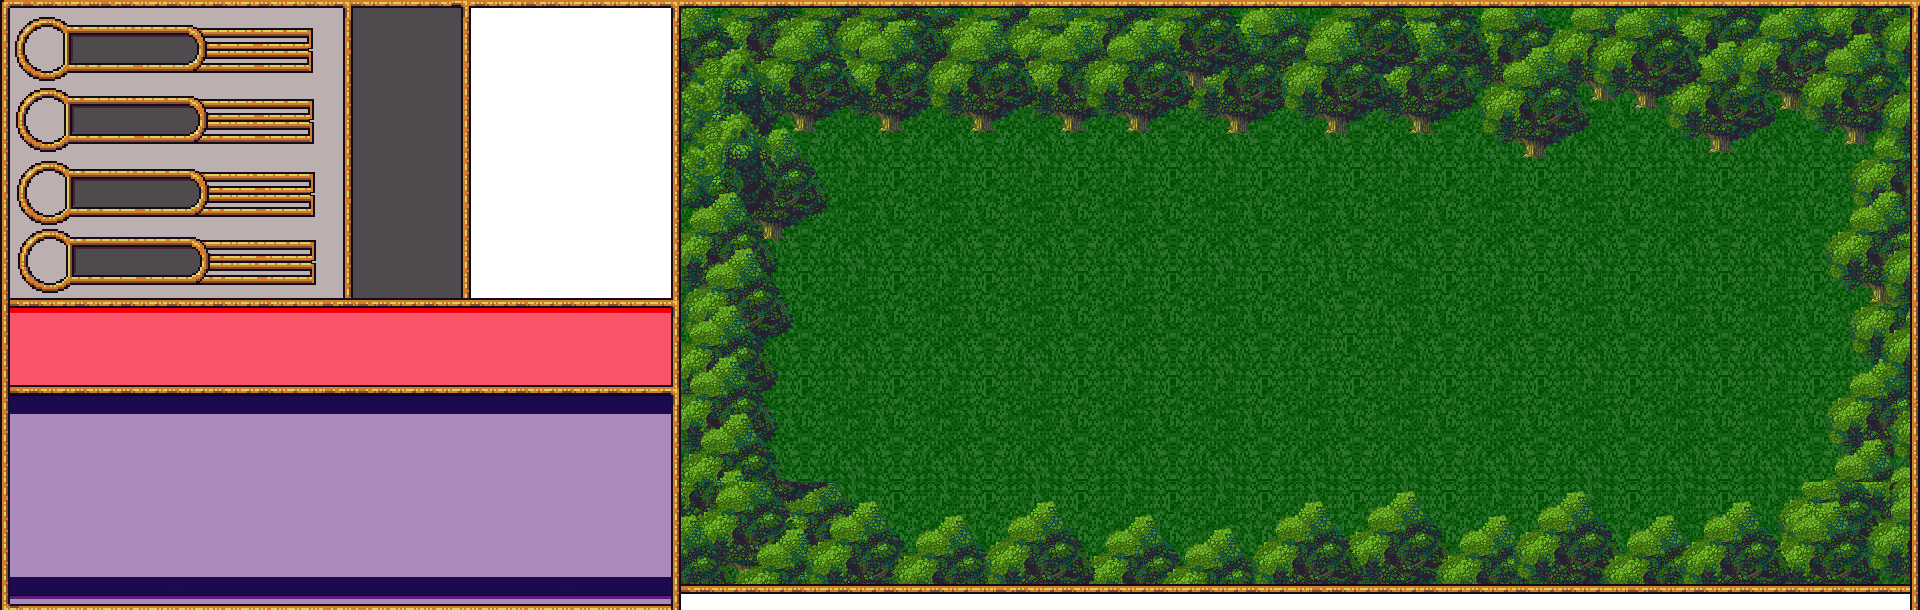
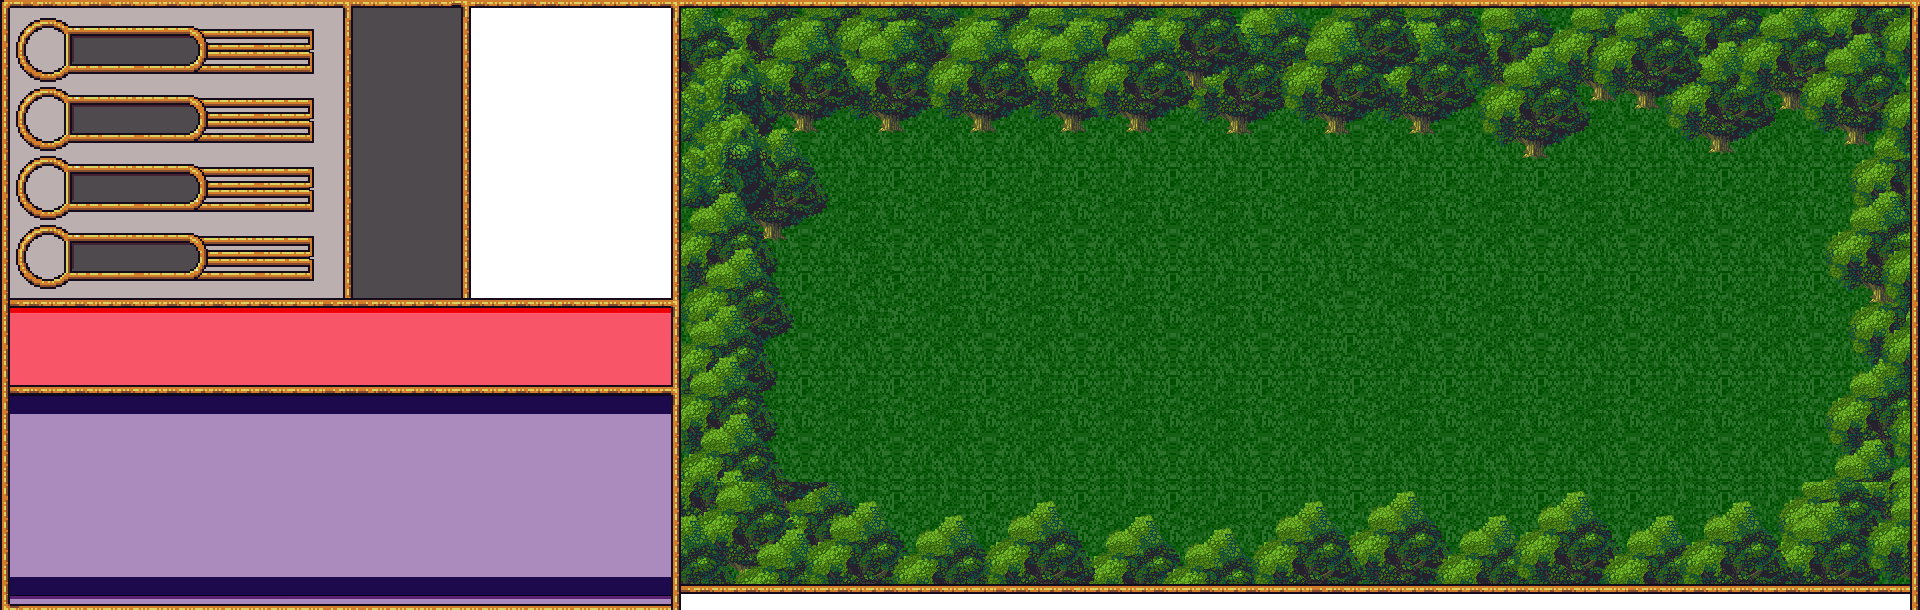
Putting together the UI

Changed region(s): [[0.0, 0.0311, 0.1875, 0.4984], [0.4375, 0.4672, 0.4688, 0.4984]]

diff --git a/views/src/game.js b/views/src/game.js
@@ -31,7 +31,7 @@ Game.preload = function() {
     game.load.script("BlurX", path + "assets/Layout/BlurX.js");
     game.load.script("BlurY", path + "assets/Layout/BlurY.js");
     game.load.script('webfont', '//ajax.googleapis.com/ajax/libs/webfont/1.4.7/webfont.js');
-    game.load.image('map', 'assets/Board/Board2.png');
+    game.load.image('map', 'assets/Board/Board.png');
     game.load.image('status', 'assets/Board-62-height/Status.png');
     game.load.image('trap', 'assets/images/trap.png');
     game.load.image('yellow_gem', 'assets/Board-62-height/YellowGem.png');
@@ -41,15 +41,15 @@ Game.preload = function() {
     game.load.image('sprite','assets/images/sprite-test.png');
     game.load.image('bullet','assets/images/arrow2.png');
     game.load.image('remove','assets/images/remove.png');
-    game.load.image('trash','assets/images/trash.png');
-    game.load.image('exit','assets/images/exit.png');
+    game.load.image('trash','assets/Buttons/ButtonTrash.png');
+    game.load.image('exit','assets/images/x-button.png');
     game.load.image('roll-dice','assets/Buttons/ButtonRoll.png');
     game.load.image('end-turn','assets/Buttons/ButtonEnd.png');
     game.load.image('atk-btn', 'assets/Buttons/ButtonOff.png');
-    game.load.image('warrior', 'assets/images/warrior.png');
-    game.load.image('mage','assets/images/Mage.png');
-    game.load.image('ranger','assets/images/Ranger.png');
-    game.load.image('mat', 'assets/Board-62-height/temp-mat.png');
+    game.load.image('warrior', 'assets/Attributes/Force.png');
+    game.load.image('mage','assets/Attributes/Arcana.png');
+    game.load.image('ranger','assets/Attributes/Clarity.png');
+    game.load.image('mat', 'assets/Board/Selection.png');
     game.load.image('card_sprite', 'assets/Board-62-height/temp-card.png');
 
     game.load.atlasJSONHash('all_cards', 'assets/all_cards.png', 'assets/all_cards.json');
@@ -150,10 +150,10 @@ Game.addNewPlayer = function(player,id,x,y){
 
 
 Game.createButtons = function(id){
-    game.roll_btn = game.add.button(this.world.centerX,this.world.centerY,'roll-dice', Game.rollDice);
+    game.roll_btn = game.add.button(408, 100,'roll-dice', Game.rollDice);
     game.roll_btn.anchor.setTo(0.5,0.5);
 
-    game.end_btn = game.add.button(this.world.centerX+100,this.world.centerY,'end-turn', Client.endTurn);
+    game.end_btn = game.add.button(408, 200,'end-turn', Client.endTurn);
     game.end_btn.anchor.setTo(0.5,0.5);
 
     Game.disableInput();
@@ -301,8 +301,6 @@ Game.updateStats = function(players){
     {
         var id = players[i].id;
 
-        title[id].setText(players[id].stats.title + " - Lvl. " + players[id].stats.level + ": " + players[id].name);
-
         var healthOffset = players[id].stats.hp/players[id].stats.max_hp * 100;
         myHealthBar[id].setPercent(healthOffset);
         hp_text[id].setText("HP: " + players[id].stats.hp + "/" + players[id].stats.max_hp);
@@ -394,7 +392,7 @@ Game.updateDice = function (frameValues, newTotal) {
 };
 
 Game.enableTrashInput = function (index){
-    game.trash = game.add.button(this.world.centerX-400,this.world.centerY+200,'trash', function(){
+    game.trash = game.add.button(595, 490,'trash', function(){
         Game.removeCardFromHand(index);
     });
     game.trash.anchor.setTo(0.5,0.5);
@@ -529,30 +527,32 @@ Game.removeGraphics = function(){
 
 Game.createStatBars = function (name, hero, x, y, id){
 
-    title[id] = game.add.text(x, y, hero.title + " - Lvl. " + hero.level + ": " + name, {
-        font: "12px Arial",
-        align: "left"
+    title[id] = game.add.text(x-150, y+10, name, {
+        font: "11px Arial",
+        align: "left",
+        fill: "#ffffff",
+        stroke: '#000000',
+        strokeThickness: 2
+    
     });
     title[id].anchor.setTo(0.5, 0.5);
+    title[id].setShadow(2, 2, 'rgba(0,0,0,0.5)', 2);
 
-    y += 15;
-
-    hp_text[id] = game.add.text(x, y, "HP: " + hero.hp + "/" + hero.max_hp, {
-        font: "12px Arial",
-        align: "left"
+    hp_text[id] = game.add.text(x-88, y+4, "HP: " + hero.hp + "/" + hero.max_hp, {
+        font: "11px Arial",
+        align: "right",
+        fill: "#ffffff",
+        stroke: '#000000',
+        strokeThickness: 2
     });
     hp_text[id].anchor.setTo(0.5, 0.5);
-
-    y += 10;
+    hp_text[id].setShadow(2, 2, 'rgba(0,0,0,0.5)', 2);
 
     var healthConfig = {
-        width: 200,
-        height: 15,
+        width: 103,
+        height: 4,
         x: x,
         y: y,
-        bg: {
-            color: '#bab4b2'
-        },
         bar: {
             color: '#f70000'
         },
@@ -560,26 +560,26 @@ Game.createStatBars = function (name, hero, x, y, id){
         flipped: false
     };
 
-    y += 20;
+    y += 21;
 
-    mp_text[id] = game.add.text(x, y, "MP: " + hero.mp + "/" + hero.max_mp, {
-        font: "12px Arial",
-        align: "left"
+    mp_text[id] = game.add.text(x-88, y-1, "MP: " + hero.mp + "/" + hero.max_mp, {
+        font: "11px Arial",
+        align: "right",
+        fill: "#ffffff",
+        stroke: '#000000',
+        strokeThickness: 2
     });
     mp_text[id].anchor.setTo(0.5, 0.5);
+    mp_text[id].setShadow(2, 2, 'rgba(0,0,0,0.5)', 2);
 
-    y += 10;
 
     var manaConfig = {
-        width: 200,
-        height: 15,
+        width: 104,
+        height: 4,
         x: x,
         y: y,
-        bg: {
-            color: '#bab4b2'
-        },
         bar: {
-            color: '#205aea'
+            color: '#00eaea'
         },
         animationDuration: 300,
         flipped: false
@@ -613,18 +613,18 @@ Game.getRandomCards = function() {
 Game.pickCard = function() {
     var cards = Game.getRandomCards();
     choiceGroup = game.add.group();
-    game.card_mat = game.add.image(game.world.centerX, game.world.centerY, 'mat');
+    game.card_mat = game.add.image(1295, 295, 'mat');
     game.card_mat.anchor.setTo(0.5, 0.5);
-    game.card_mat.alpha = 0;
+    //game.card_mat.alpha = 0;
     choiceGroup.add(game.card_mat);
-    Game.createCardChoices(game.card0, game.card_mat.centerX - 350, game.card_mat.centerY, cards[0]);
-    Game.createCardChoices(game.card1, game.card_mat.centerX - 180, game.card_mat.centerY, cards[1]);
-    Game.createCardChoices(game.card2, game.card_mat.centerX - 10, game.card_mat.centerY, cards[2]);
-    Game.createCardChoices(game.card3, game.card_mat.centerX + 160, game.card_mat.centerY, cards[3]);
-    Game.createCardChoices(game.card4, game.card_mat.centerX + 330, game.card_mat.centerY, cards[4]);
-    Game.createCardChoices(game.card5, game.card_mat.centerX + 500, game.card_mat.centerY, cards[5]);
+    Game.createCardChoices(game.card0, game.card_mat.centerX - 420, game.card_mat.centerY, cards[0]);
+    Game.createCardChoices(game.card1, game.card_mat.centerX - 250, game.card_mat.centerY, cards[1]);
+    Game.createCardChoices(game.card2, game.card_mat.centerX - 80, game.card_mat.centerY, cards[2]);
+    Game.createCardChoices(game.card3, game.card_mat.centerX + 90, game.card_mat.centerY, cards[3]);
+    Game.createCardChoices(game.card4, game.card_mat.centerX + 260, game.card_mat.centerY, cards[4]);
+    Game.createCardChoices(game.card5, game.card_mat.centerX + 430, game.card_mat.centerY, cards[5]);
 
-    var exit = game.add.button(game.card_mat.centerX-100, game.card_mat.centerY-130, 'exit', Game.removeCardChoiceMat);
+    var exit = game.add.button(game.card_mat.centerX + 530, game.card_mat.centerY - 160, 'exit', Game.removeCardChoiceMat);
     exit.anchor.setTo(0.5, 0.5);
 
     choiceGroup.add(exit);
@@ -644,7 +644,7 @@ Game.removeCardChoiceMat = function(){
 
 Game.createCardChoices = function(context, x, y, card) {
     context = game.add.button(x, y, 'all_cards', function(){
-        if (numOfCards < 6) {
+        if (numOfCards < 5) {
             Game.createCardButton(card);
             Game.removeCardChoiceMat();
         }
@@ -717,7 +717,7 @@ Game.createCardButton = function (card){
 
           }, game, card.sprite, card.sprite, card.sprite);
 
-            myCards[index].button.scale.setTo(0.7, 0.7);
+            myCards[index].button.scale.setTo(0.6, 0.6);
 
             myCards[index].button.onInputOver.add(function(){
                 myCards[index].cardDesc = game.add.text(myCards[i].x, myCards[i].y, card.title + "\n" +
@@ -796,7 +796,7 @@ Game.removeCardFromHand = function(index){
 };
 
 Game.levelUpScreen = function(){
-    game.card_mat = game.add.image(game.world.centerX, game.world.centerY, 'mat');
+    game.card_mat = game.add.image(1295, 295, 'mat');
     game.card_mat.anchor.setTo(0.5, 0.5);
 
 
@@ -810,6 +810,11 @@ Game.levelUpScreen = function(){
     clarity = game.add.button(game.card_mat.centerX+200, game.card_mat.centerY, 'ranger', function(){
         Client.sendChoice(2);
     });
+
+    game.prompt.anchor.setTo(0.5, 0.5);
+    force.anchor.setTo(0.5, 0.5);
+    arcana.anchor.setTo(0.5, 0.5);
+    clarity.anchor.setTo(0.5, 0.5);
 
 };
 
@@ -837,18 +842,21 @@ Game.loadBoard = function(hero) {
     game.map.events.onInputUp.add(Game.getCoordinates, this);
 
 
-    Client.askNewPlayer([fname + " " + lname, fname + " " +lname + " has joined the room.", hero]);
+    Client.askNewPlayer([fname, fname + " " +lname + " has joined the room.", hero]);
 
     diceGroup = game.add.group();
     var i;
-    for (i=0; i < 3; i++) {
-        var d = new Dice(game, i*100+360, 100);
+    var x = 90;
+    for (i=0; i < 5; i++) {
+        var d = new Dice(game, x, 344);
+        x += 70;
         diceGroup.add(d);
     }
 
-    text = game.add.text(360,10, "Total: ");
-    text.font = "Roboto Slab";
+    text = game.add.text(x+50,344, "Total: ");
+    text.font = "Revalia";
     text.fontSize = 30;
-    text.fill = "#f44242";
+    text.fill = "#29aff4";
+    text.anchor.setTo(0.5, 0.5);
 };
 

diff --git a/views/src/abilities.js b/views/src/abilities.js
@@ -306,8 +306,8 @@ var myCards =[
     {
         card: null,
         slot: 1,
-        x: 60,
-        y: 420,
+        x: 70,
+        y: 490,
         button: null,
         removeButton: null,
         cardDesc: null,
@@ -316,8 +316,8 @@ var myCards =[
     {
         card: null,
         slot: 2,
-        x: 130,
-        y: 420,
+        x: 170,
+        y: 490,
         button: null,
         removeButton: null,
         cardDesc: null,
@@ -326,8 +326,8 @@ var myCards =[
     {
         card: null,
         slot: 3,
-        x: 200,
-        y: 420,
+        x: 270,
+        y: 490,
         button: null,
         removeButton: null,
         cardDesc: null,
@@ -336,8 +336,8 @@ var myCards =[
     {
         card: null,
         slot: 4,
-        x: 60,
-        y: 500,
+        x: 370,
+        y: 490,
         button: null,
         removeButton: null,
         cardDesc: null,
@@ -346,23 +346,13 @@ var myCards =[
     {
         card: null,
         slot: 5,
-        x: 130,
-        y: 500,
+        x: 470,
+        y: 490,
         button: null,
         removeButton: null,
         cardDesc: null,
         isPressed: false
-    },
-    {
-        card: null,
-        slot: 6,
-        x: 200,
-        y: 500,
-        button: null,
-        removeButton: null,
-        cardDesc: null,
-        isPressed: false
-    },
+    }
 ];
 
 

diff --git a/server.js b/server.js
@@ -55,8 +55,8 @@ server.lastPlayerID = 0;
 var sockets = [];
 var currentTurn = 0;
 var turn = 0;
-var statBarsX = 150;
-var statBarsY = 10;
+var statBarsX = 257;
+var statBarsY = 36;
 var numberOfPlayers = 0;
 var checkForReset = 0;
 var trapID = 0;
@@ -77,7 +77,7 @@ io.sockets.on('connection', function (socket) {
             turn: false,
         };
         checkForReset++;
-        statBarsY += 80;
+        statBarsY += 69;
 
         socket.emit('allplayers', getAllPlayers(), socket.player);
         socket.broadcast.emit('newplayer', socket.player);
